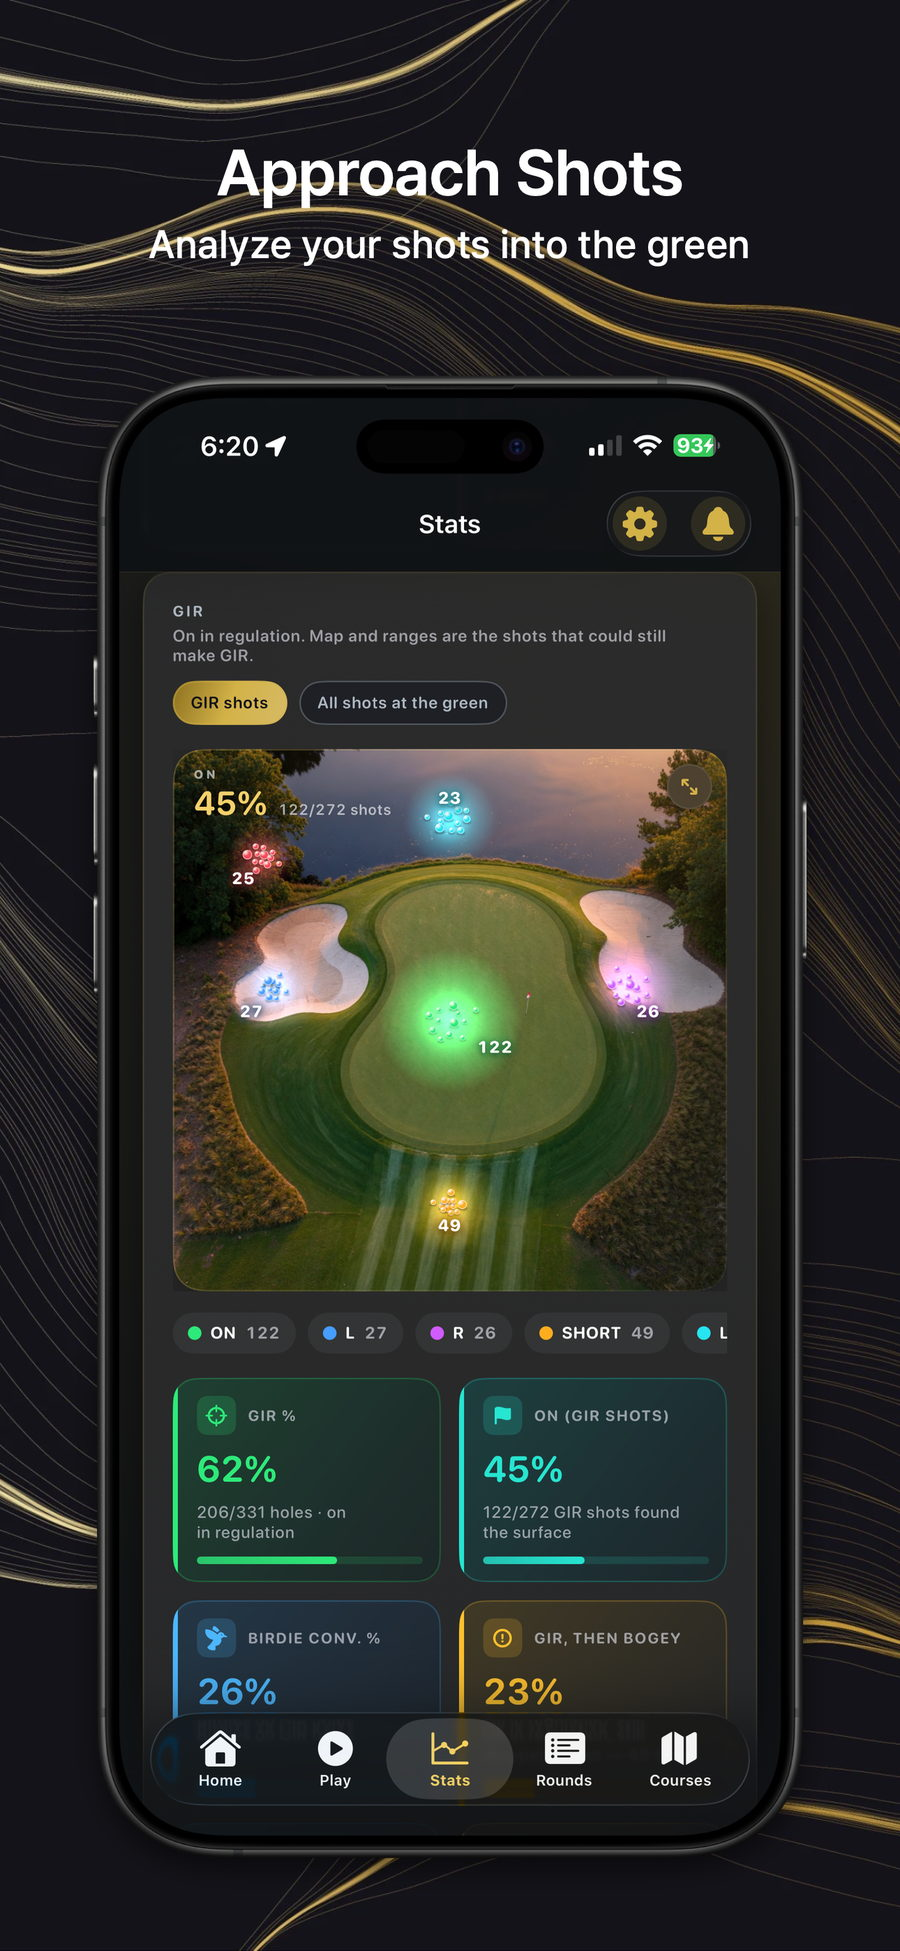
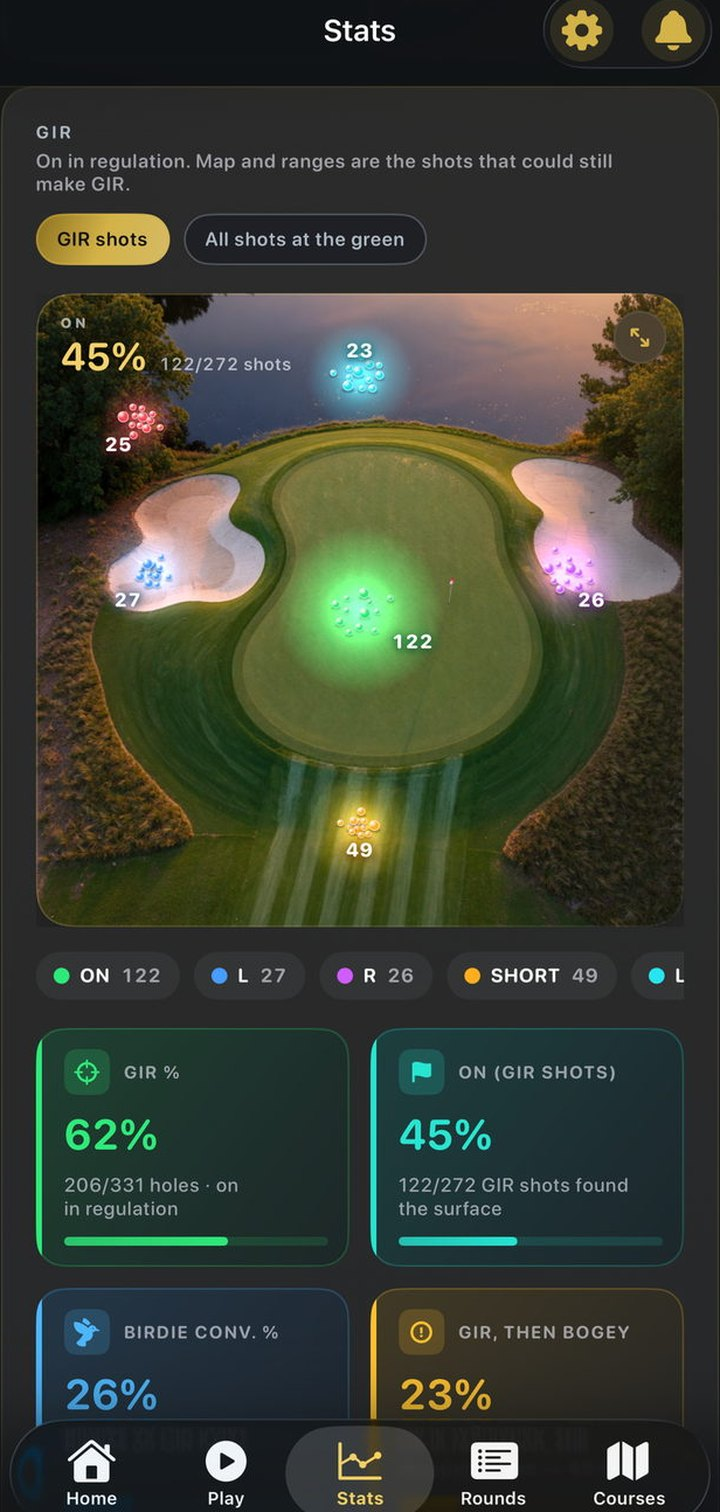
Put V3 screenshots in the original CSS iPhone bezels.

diff --git a/index.html b/index.html
@@ -22,7 +22,7 @@
   <link rel="preconnect" href="https://fonts.googleapis.com" />
   <link rel="preconnect" href="https://fonts.gstatic.com" crossorigin />
   <link href="https://fonts.googleapis.com/css2?family=Cormorant+Garamond:wght@600;700&amp;family=DM+Sans:ital,opsz,wght@0,9..40,400;0,9..40,500;0,9..40,700;1,9..40,400&amp;display=swap" rel="stylesheet" />
-  <link rel="stylesheet" href="assets/site.css?v=v3" />
+  <link rel="stylesheet" href="assets/site.css?v=v3frame" />
   <script type="application/ld+json">
   {"@context":"https://schema.org","@type":"SoftwareApplication","name":"EagleEye","operatingSystem":"iOS","applicationCategory":"SportsApplication","offers":{"@type":"Offer","price":"0","priceCurrency":"USD"},"url":"https://apps.apple.com/app/id6793305657"}
   </script>
@@ -62,11 +62,11 @@
         <p class="fine">Try it free. Unlock once — less than a single green fee, forever.</p>
       </div>
       <div class="phones" aria-hidden="false">
-        <div class="poster back">
-          <img src="assets/ui-play.jpg" alt="EagleEye Play — pick a course and start a round" width="900" height="1951" />
+        <div class="device back">
+          <img src="assets/ui-play.jpg" alt="EagleEye Play — pick a course and start a round" width="720" height="1512" />
         </div>
-        <div class="poster front">
-          <img src="assets/ui-hero.jpg" alt="EagleEye home — See every shot" width="900" height="1951" />
+        <div class="device front">
+          <img src="assets/ui-hero.jpg" alt="EagleEye home — handicap, trends, and goals" width="720" height="1512" />
         </div>
       </div>
     </section>
@@ -127,8 +127,8 @@
         </ul>
       </div>
       <div class="feature-media">
-        <div class="poster">
-          <img src="assets/ui-approach.jpg" alt="EagleEye approach map showing shots onto and around the green" width="900" height="1951" />
+        <div class="device">
+          <img src="assets/ui-approach.jpg" alt="EagleEye approach map showing shots onto and around the green" width="720" height="1512" />
         </div>
       </div>
     </section>
@@ -145,8 +145,8 @@
         </ul>
       </div>
       <div class="feature-media">
-        <div class="poster">
-          <img src="assets/ui-shortgame.jpg" alt="EagleEye short game stats — putting, scramble, and sand" width="900" height="1951" />
+        <div class="device">
+          <img src="assets/ui-shortgame.jpg" alt="EagleEye short game stats — putting, scramble, and sand" width="720" height="1512" />
         </div>
       </div>
     </section>
@@ -163,8 +163,8 @@
         </ul>
       </div>
       <div class="feature-media">
-        <div class="poster">
-          <img src="assets/ui-fairways.jpg" alt="EagleEye tee-shot dispersion map on a fairway" width="900" height="1951" />
+        <div class="device">
+          <img src="assets/ui-fairways.jpg" alt="EagleEye tee-shot dispersion map on a fairway" width="720" height="1512" />
         </div>
       </div>
     </section>
@@ -174,14 +174,14 @@
       <p class="intro">Not a few totals on a scorecard. EagleEye shows exactly where strokes walk away — off the tee, into the green, on the putting surface — so the next range session has a target.</p>
       <div class="shots shots-2">
         <figure>
-          <div class="poster">
-            <img src="assets/ui-stats.jpg" alt="EagleEye stats home — scoring, GIR, tee, short game" width="900" height="1951" />
+          <div class="device shot-phone">
+            <img src="assets/ui-stats.jpg" alt="EagleEye stats home — scoring, GIR, tee, short game" width="720" height="1512" />
           </div>
           <figcaption>Your season, at a glance</figcaption>
         </figure>
         <figure>
-          <div class="poster">
-            <img src="assets/ui-leaks.jpg" alt="EagleEye leaks — where strokes slip away compared with your level" width="900" height="1951" />
+          <div class="device shot-phone">
+            <img src="assets/ui-leaks.jpg" alt="EagleEye leaks — where strokes slip away compared with your level" width="720" height="1512" />
           </div>
           <figcaption>Where you actually lose shots</figcaption>
         </figure>

diff --git a/assets/site.css b/assets/site.css
@@ -269,7 +269,11 @@ h1 {
 .feature.reverse .feature-copy { order: 2; }
 .feature .intro { margin-bottom: 18px; }
 .feature-media { display: flex; justify-content: center; }
-.feature-media .poster { width: min(340px, 100%); }
+.feature-media .device, .shot-phone {
+  width: min(280px, 100%);
+  margin: 0 auto;
+  transform: none;
+}
 .feature-list {
   margin: 0;
   padding: 0;
@@ -300,6 +304,7 @@ h1 {
   margin-top: 36px;
 }
 .shots .poster { width: 100%; max-width: 340px; margin: 0 auto; }
+.shots .device { transform: none; }
 
 .proof {
   display: grid;
@@ -449,7 +454,7 @@ article.legal li { margin: 0.38rem 0; }
   .device.back, .poster.back { display: none; }
   .device.front, .poster.front { transform: none; width: min(280px, 78%); margin: 0 auto; }
   .feature.reverse .feature-copy { order: 0; }
-  .feature-media .poster { width: min(300px, 86%); }
+  .feature-media .poster, .feature-media .device { width: min(280px, 86%); }
   .nav .hide-sm { display: none; }
   h1 { font-size: 2.5rem; }
   .hero { padding-top: 40px; gap: 28px; }
